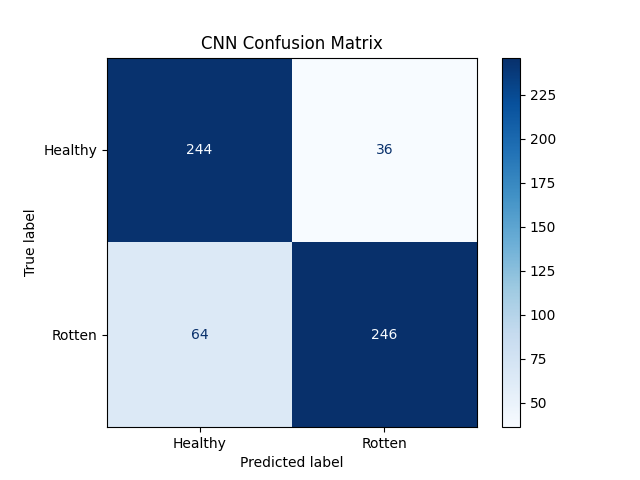
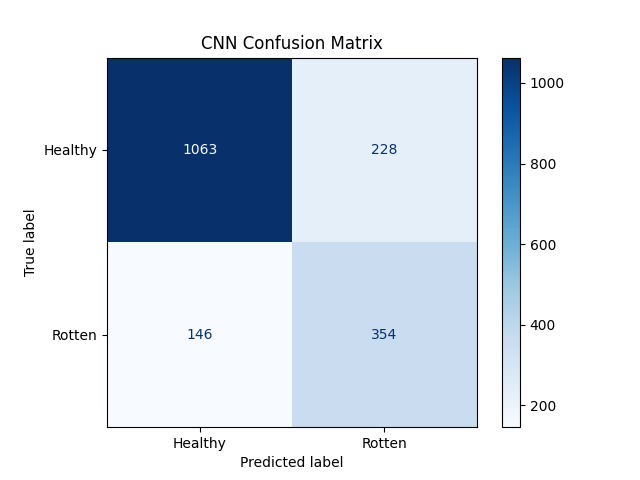
fix: model code base

diff --git a/Modules/Artificial Neural Network/src/convolutional_neural_network/cnn_model_inference.py b/Modules/Artificial Neural Network/src/convolutional_neural_network/cnn_model_inference.py
@@ -1,7 +1,6 @@
 import os
 import sys
 from pathlib import Path
-
 import tensorflow as tf
 import numpy as np
 import matplotlib.pyplot as plt
@@ -22,59 +21,68 @@ CNN_MODEL_PATH = MODEL_DIR / "cnn_classifier_model.keras"
 DATASET_PATH = PROJECT_ROOT / "data" / "prediction_use_dataset"
 
 # Folder to save results
-RESULTS_DIR = PROJECT_ROOT / "results"
+RESULTS_DIR = PROJECT_ROOT / "../results"
 RESULTS_DIR.mkdir(parents=True, exist_ok=True)
 
-PLOT_PATH = RESULTS_DIR / "banana_inference_samples.png"
+PLOT_PATH = RESULTS_DIR / "_inference_samples.png"
 
 # =========================================================
 # LOAD MODEL
 # =========================================================
 print("Loading CNN classifier model...")
-
 if not CNN_MODEL_PATH.exists():
     raise FileNotFoundError(f"Model not found at {CNN_MODEL_PATH}")
 
 cnn_classifier_model = tf.keras.models.load_model(CNN_MODEL_PATH)
 
 # =========================================================
-# LOAD BANANA TEST DATA
+# DYNAMIC FRUIT/VEGETABLE NAME (default: banana)
 # =========================================================
-print("\nLoading Banana test dataset...")
+import argparse
 
-banana_test_ds = load_dataset(DATASET_PATH / "Test", "banana")
-banana_test_ds = banana_test_ds.map(normalize)
+parser = argparse.ArgumentParser(description="Run CNN inference on a fruit/vegetable dataset")
+parser.add_argument("--name", type=str, default="banana", help="Name of the fruit/vegetable folder")
+args = parser.parse_args()
+
+name = args.name.lower()
+print(f"\nRunning inference on '{name}' samples...")
+
+# =========================================================
+# LOAD TEST DATA
+# =========================================================
+test_ds = load_dataset(DATASET_PATH / "Test", name)
+test_ds = test_ds.map(normalize)
 
 # =========================================================
 # EXTRACT DATA
 # =========================================================
 def get_data_and_labels(dataset):
     images, labels = [], []
-    for img, label in dataset.as_numpy_iterator():
+    for img, label in dataset:
         images.append(img)
         labels.append(label)
     return np.concatenate(images, axis=0), np.concatenate(labels, axis=0)
 
-X_banana, y_banana = get_data_and_labels(banana_test_ds)
+X_test, y_test = get_data_and_labels(test_ds)
 
-if len(X_banana) == 0:
-    raise RuntimeError("No banana samples found.")
+if len(X_test) == 0:
+    raise RuntimeError(f"No samples found for '{name}'.")
 
-print(f"Extracted {len(X_banana)} banana samples.")
+print(f"Extracted {len(X_test)} {name} samples.")
 
 # =========================================================
 # SAMPLE PREDICTIONS & VISUALIZATION
 # =========================================================
-NUM_SAMPLES = min(5, len(X_banana))
+NUM_SAMPLES = min(5, len(X_test))
 THRESHOLD = 0.7
 
-indices = np.random.choice(len(X_banana), NUM_SAMPLES, replace=False)
+indices = np.random.choice(len(X_test), NUM_SAMPLES, replace=False)
 
 plt.figure(figsize=(15, 4))
 
 for idx, i in enumerate(indices):
-    img = X_banana[i:i + 1]
-    true_label = "Rotten" if y_banana[i] == 1 else "Healthy"
+    img = X_test[i:i + 1]
+    true_label = "Rotten" if y_test[i] == 1 else "Healthy"
 
     prob = cnn_classifier_model.predict(img, verbose=0)[0][0]
     pred_label = "Rotten" if prob > THRESHOLD else "Healthy"
@@ -106,9 +114,3 @@ plt.show()
 plt.close()
 
 print(f"\nPlot saved to: {PLOT_PATH}")
-
-# =========================================================
-# OPTIONAL: OVERALL EVALUATION
-# =========================================================
-# loss, acc = cnn_classifier_model.evaluate(X_banana, y_banana, verbose=1)
-# print(f"Banana Test Accuracy: {acc * 100:.2f}%")

diff --git a/Modules/Artificial Neural Network/src/data_pipeline.py b/Modules/Artificial Neural Network/src/data_pipeline.py
@@ -4,7 +4,7 @@ import sys
 
 # Define the base directory of the project
 BASE_DIR = os.path.dirname(os.path.abspath(__file__))
-DATASET_PATH = os.path.join(BASE_DIR, "data/train_test_dataset")
+DATASET_PATH = os.path.join(BASE_DIR, "data1/train_test_dataset")
 
 IMG_SIZE = 450
 BATCH_SIZE = 40
@@ -23,7 +23,6 @@ def load_binary_dataset(directory):
     ds = tf.keras.utils.image_dataset_from_directory(
         directory,
         label_mode='int', 
-        # class_names=['freshapples', 'rottenapples'], # Removed hardcoded class names to allow flexibility
         image_size=(IMG_SIZE, IMG_SIZE),
         batch_size=BATCH_SIZE
     )
@@ -47,19 +46,19 @@ def load_binary_dataset(directory):
 
     return ds.map(map_to_binary)
 
-def load_dataset(directory, fruit_name):
+def load_dataset(directory, name):
     """
-    Loads a dataset for a specific fruit (e.g., 'banana') and maps it to binary labels.
+    Loads a dataset for a specific fruit/vegetable and maps it to binary labels.
     
     Args:
         directory (str): Path to the dataset directory.
-        fruit_name (str): Name of the fruit to filter by (e.g., 'banana').
+        name (str): Name of the fruit/vegetable to filter by (e.g., 'banana').
         
     Returns:
-        tf.data.Dataset: A dataset yielding (image, label) pairs for the specific fruit.
+        tf.data.Dataset: A dataset yielding (image, label) pairs for the specific fruit/vegetable.
     """
-    # Load only folders for a specific fruit
-    class_names = [f'fresh{fruit_name}', f'rotten{fruit_name}']
+    # Load only folders for a specific fruit/vegetable
+    class_names = [f'fresh{name}', f'rotten{name}']
     ds = tf.keras.utils.image_dataset_from_directory(
         directory,
         label_mode='int', 
@@ -77,12 +76,6 @@ def load_dataset(directory, fruit_name):
 
     return ds.map(map_to_binary)
 
-print("Loading Train Dataset...")
-train_ds = load_binary_dataset(os.path.join(DATASET_PATH, "Train"))
-
-print("\nLoading Test Dataset...")
-test_ds = load_binary_dataset(os.path.join(DATASET_PATH, "Test"))
-
 # Normalization and Prefetching
 def normalize(img, label):
     """
@@ -90,9 +83,24 @@ def normalize(img, label):
     """
     return tf.cast(img, tf.float32) / 255.0, label
 
-train_ds = train_ds.map(normalize).prefetch(tf.data.AUTOTUNE)
-test_ds = test_ds.map(normalize).prefetch(tf.data.AUTOTUNE)
+def get_all_datasets(verbose=False):
+    """
+    Load train/test datasets and autoencoder versions.
+    Returns:
+        train_ds, test_ds, train_ds_aen, test_ds_aen
+    """
+    if verbose:
+        print("Loading Train Dataset...")
+    train_ds = load_binary_dataset(os.path.join(DATASET_PATH, "Train"), verbose=verbose)
+    train_ds = train_ds.map(normalize).prefetch(tf.data.AUTOTUNE)
 
-# Dataset for Autoencoder (X, X) - Autoencoders learn to reconstruct the input
-train_ds_aen = train_ds.map(lambda x, y: (x, x))
-test_ds_aen = test_ds.map(lambda x, y: (x, x))
+    if verbose:
+        print("\nLoading Test Dataset...")
+    test_ds = load_binary_dataset(os.path.join(DATASET_PATH, "Test"), verbose=verbose)
+    test_ds = test_ds.map(normalize).prefetch(tf.data.AUTOTUNE)
+
+    # Autoencoder datasets (X, X)
+    train_ds_aen = train_ds.map(lambda x, y: (x, x))
+    test_ds_aen = test_ds.map(lambda x, y: (x, x))
+
+    return train_ds, test_ds, train_ds_aen, test_ds_aen

diff --git a/Modules/Artificial Neural Network/limit_dataset_v2.py b/Modules/Artificial Neural Network/limit_dataset_v2.py
@@ -1,0 +1,32 @@
+import os
+
+def limit_files_in_folders(base_path, limit=300):
+    for root, dirs, files in os.walk(base_path):
+        # We only care about folders that contain files (leaf folders)
+        if not dirs and files:
+            # Check if it's a banana folder or if we should just do all
+            # The user specifically mentioned banana, but previously said "each folder".
+            # I will process all folders to be safe and consistent.
+            print(f"Processing folder: {root}")
+            print(f"Current file count: {len(files)}")
+            
+            if len(files) > limit:
+                files.sort()
+                files_to_delete = files[limit:]
+                print(f"Deleting {len(files_to_delete)} files...")
+                
+                for file_name in files_to_delete:
+                    file_path = os.path.join(root, file_name)
+                    try:
+                        os.remove(file_path)
+                    except Exception as e:
+                        print(f"Error deleting {file_path}: {e}")
+                
+                print(f"New file count: {len(os.listdir(root))}")
+            else:
+                print("File count is already below or equal to the limit.")
+            print("-" * 20)
+
+if __name__ == "__main__":
+    dataset_path = "/home/ing/ai/aish/ann/Msc-DSCI/Modules/Artificial Neural Network/src/data1/train_test_dataset"
+    limit_files_in_folders(dataset_path, 100)

diff --git a/Modules/Artificial Neural Network/src/convolutional_neural_network/aen_reconstruction.py b/Modules/Artificial Neural Network/src/convolutional_neural_network/aen_reconstruction.py
@@ -8,9 +8,9 @@ import numpy as np
 SRC_DIR = os_path.dirname(os_path.abspath(__file__))
 sys.path.append(os_path.dirname(SRC_DIR))  # Add parent directory to import data_pipeline
 
-from data_pipeline import train_ds, test_ds
+from data_pipeline import get_all_datasets
 
-MODEL_DIR = os_path.abspath(os_path.join(SRC_DIR, "..", "model"))
+train_ds, test_ds = get_all_datasets(verbose=False)
 
 # ---------- DATA EXTRACTION ----------
 def get_data_and_labels(dataset):
@@ -27,7 +27,7 @@ def get_data_and_labels(dataset):
     images_list = []
     labels_list = []
 
-    for batch in dataset.as_numpy_iterator():
+    for batch in dataset:
         img, label = batch
         images_list.append(img)
         labels_list.append(label)
@@ -47,7 +47,7 @@ print(f"Training samples: {len(X_train)}, Test samples: {len(X_test)}")
 # ---------- RECONSTRUCTION PLACEHOLDER ----------
 # The following section is commented out but shows how one might generate reconstructions
 # using the autoencoder if needed.
-print("Generating reconstructed images...")
+# print("Generating reconstructed images...")
 # X_train_recon = autoencoder_model.predict(X_train)
 # X_test_recon  = autoencoder_model.predict(X_test)
-print("Reconstruction complete.")
+# print("Reconstruction complete.")

diff --git a/Modules/Artificial Neural Network/src/convolutional_autoencoder/con_aen.py b/Modules/Artificial Neural Network/src/convolutional_autoencoder/con_aen.py
@@ -14,7 +14,9 @@ from con_aen_decoder import decoder
 # The original code relied on implicit path setup or running from a specific location.
 # It's better to be explicit if possible, but for now we'll stick to the existing import structure
 # which seems to rely on the script being run in a way that data_pipeline is importable.
-from data_pipeline import train_ds_aen, test_ds_aen, IMG_SIZE
+from data_pipeline import get_all_datasets
+
+train_ds, test_ds, train_ds_aen, test_ds_aen = get_all_datasets(verbose=False)
 
 # ---------- MODEL ASSEMBLY ----------
 # Input layer for the autoencoder

diff --git a/Modules/Artificial Neural Network/src/convolutional_neural_network/cnn_classifier.py b/Modules/Artificial Neural Network/src/convolutional_neural_network/cnn_classifier.py
@@ -89,8 +89,8 @@ print("Starting training...")
 history = cnn.fit(
     X_train, y_train,
     validation_data=(X_test, y_test),
-    epochs=100,
-    batch_size=32,
+    epochs=50,
+    batch_size=40,
     callbacks=[early_stop]
 )
 
